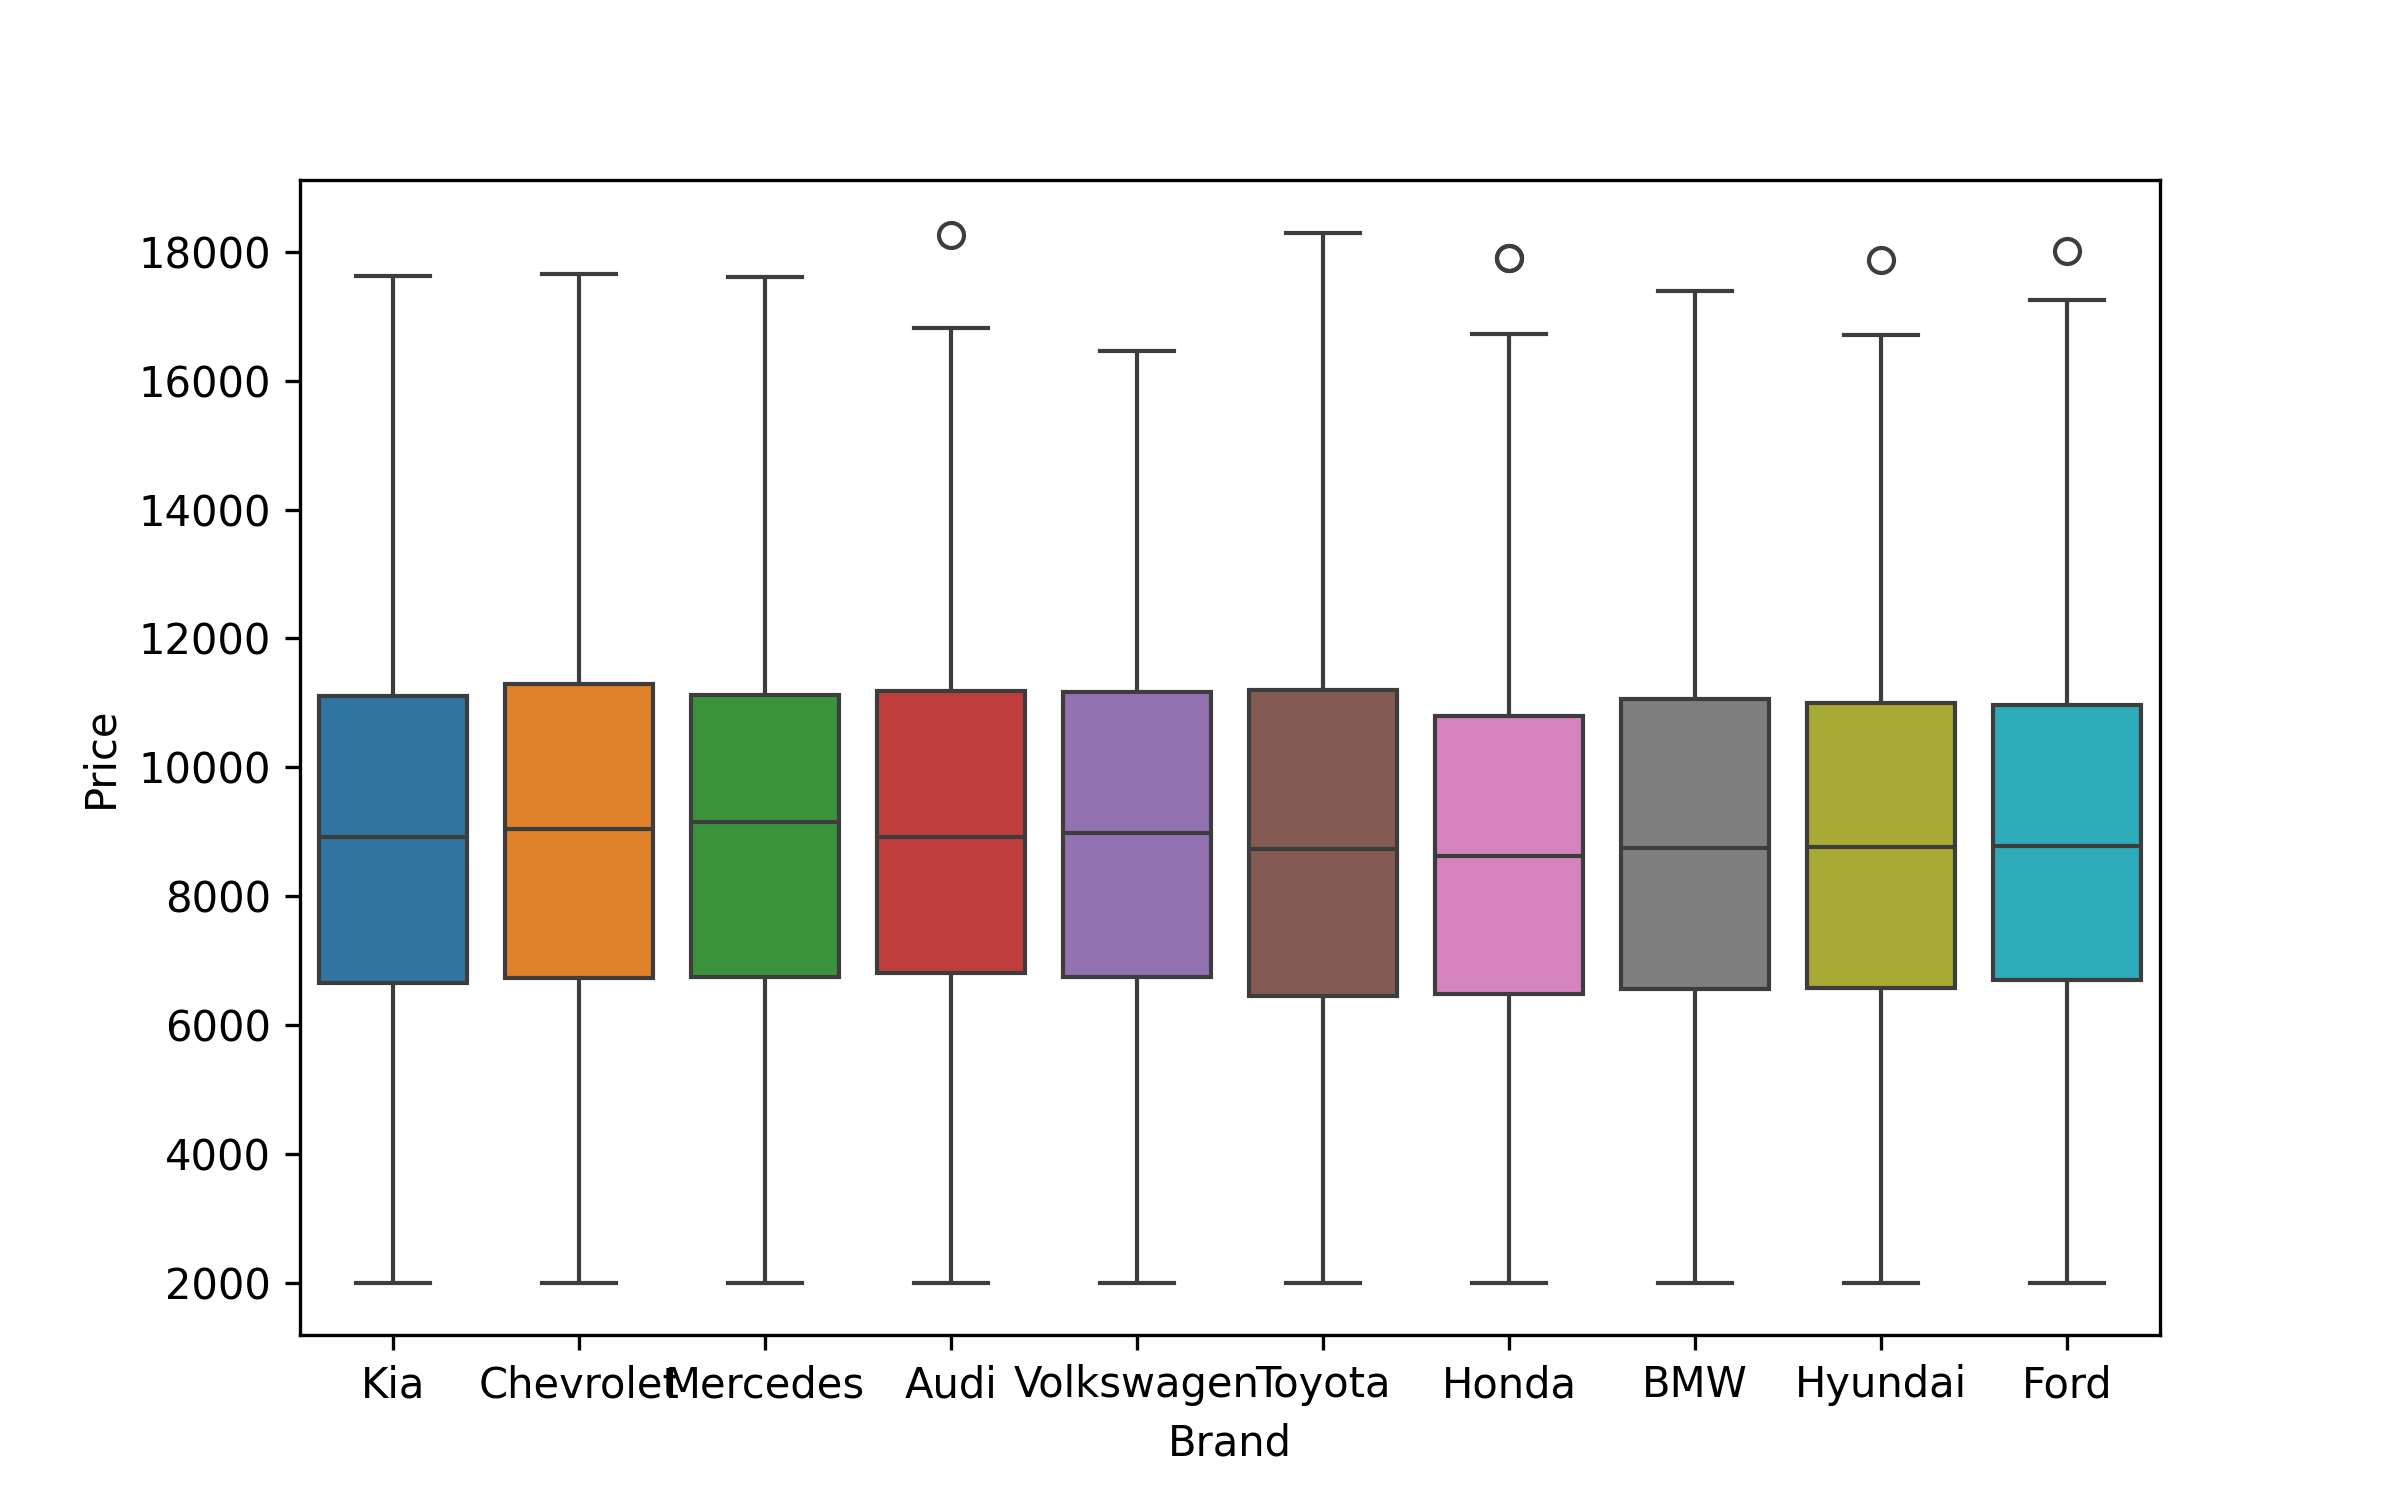
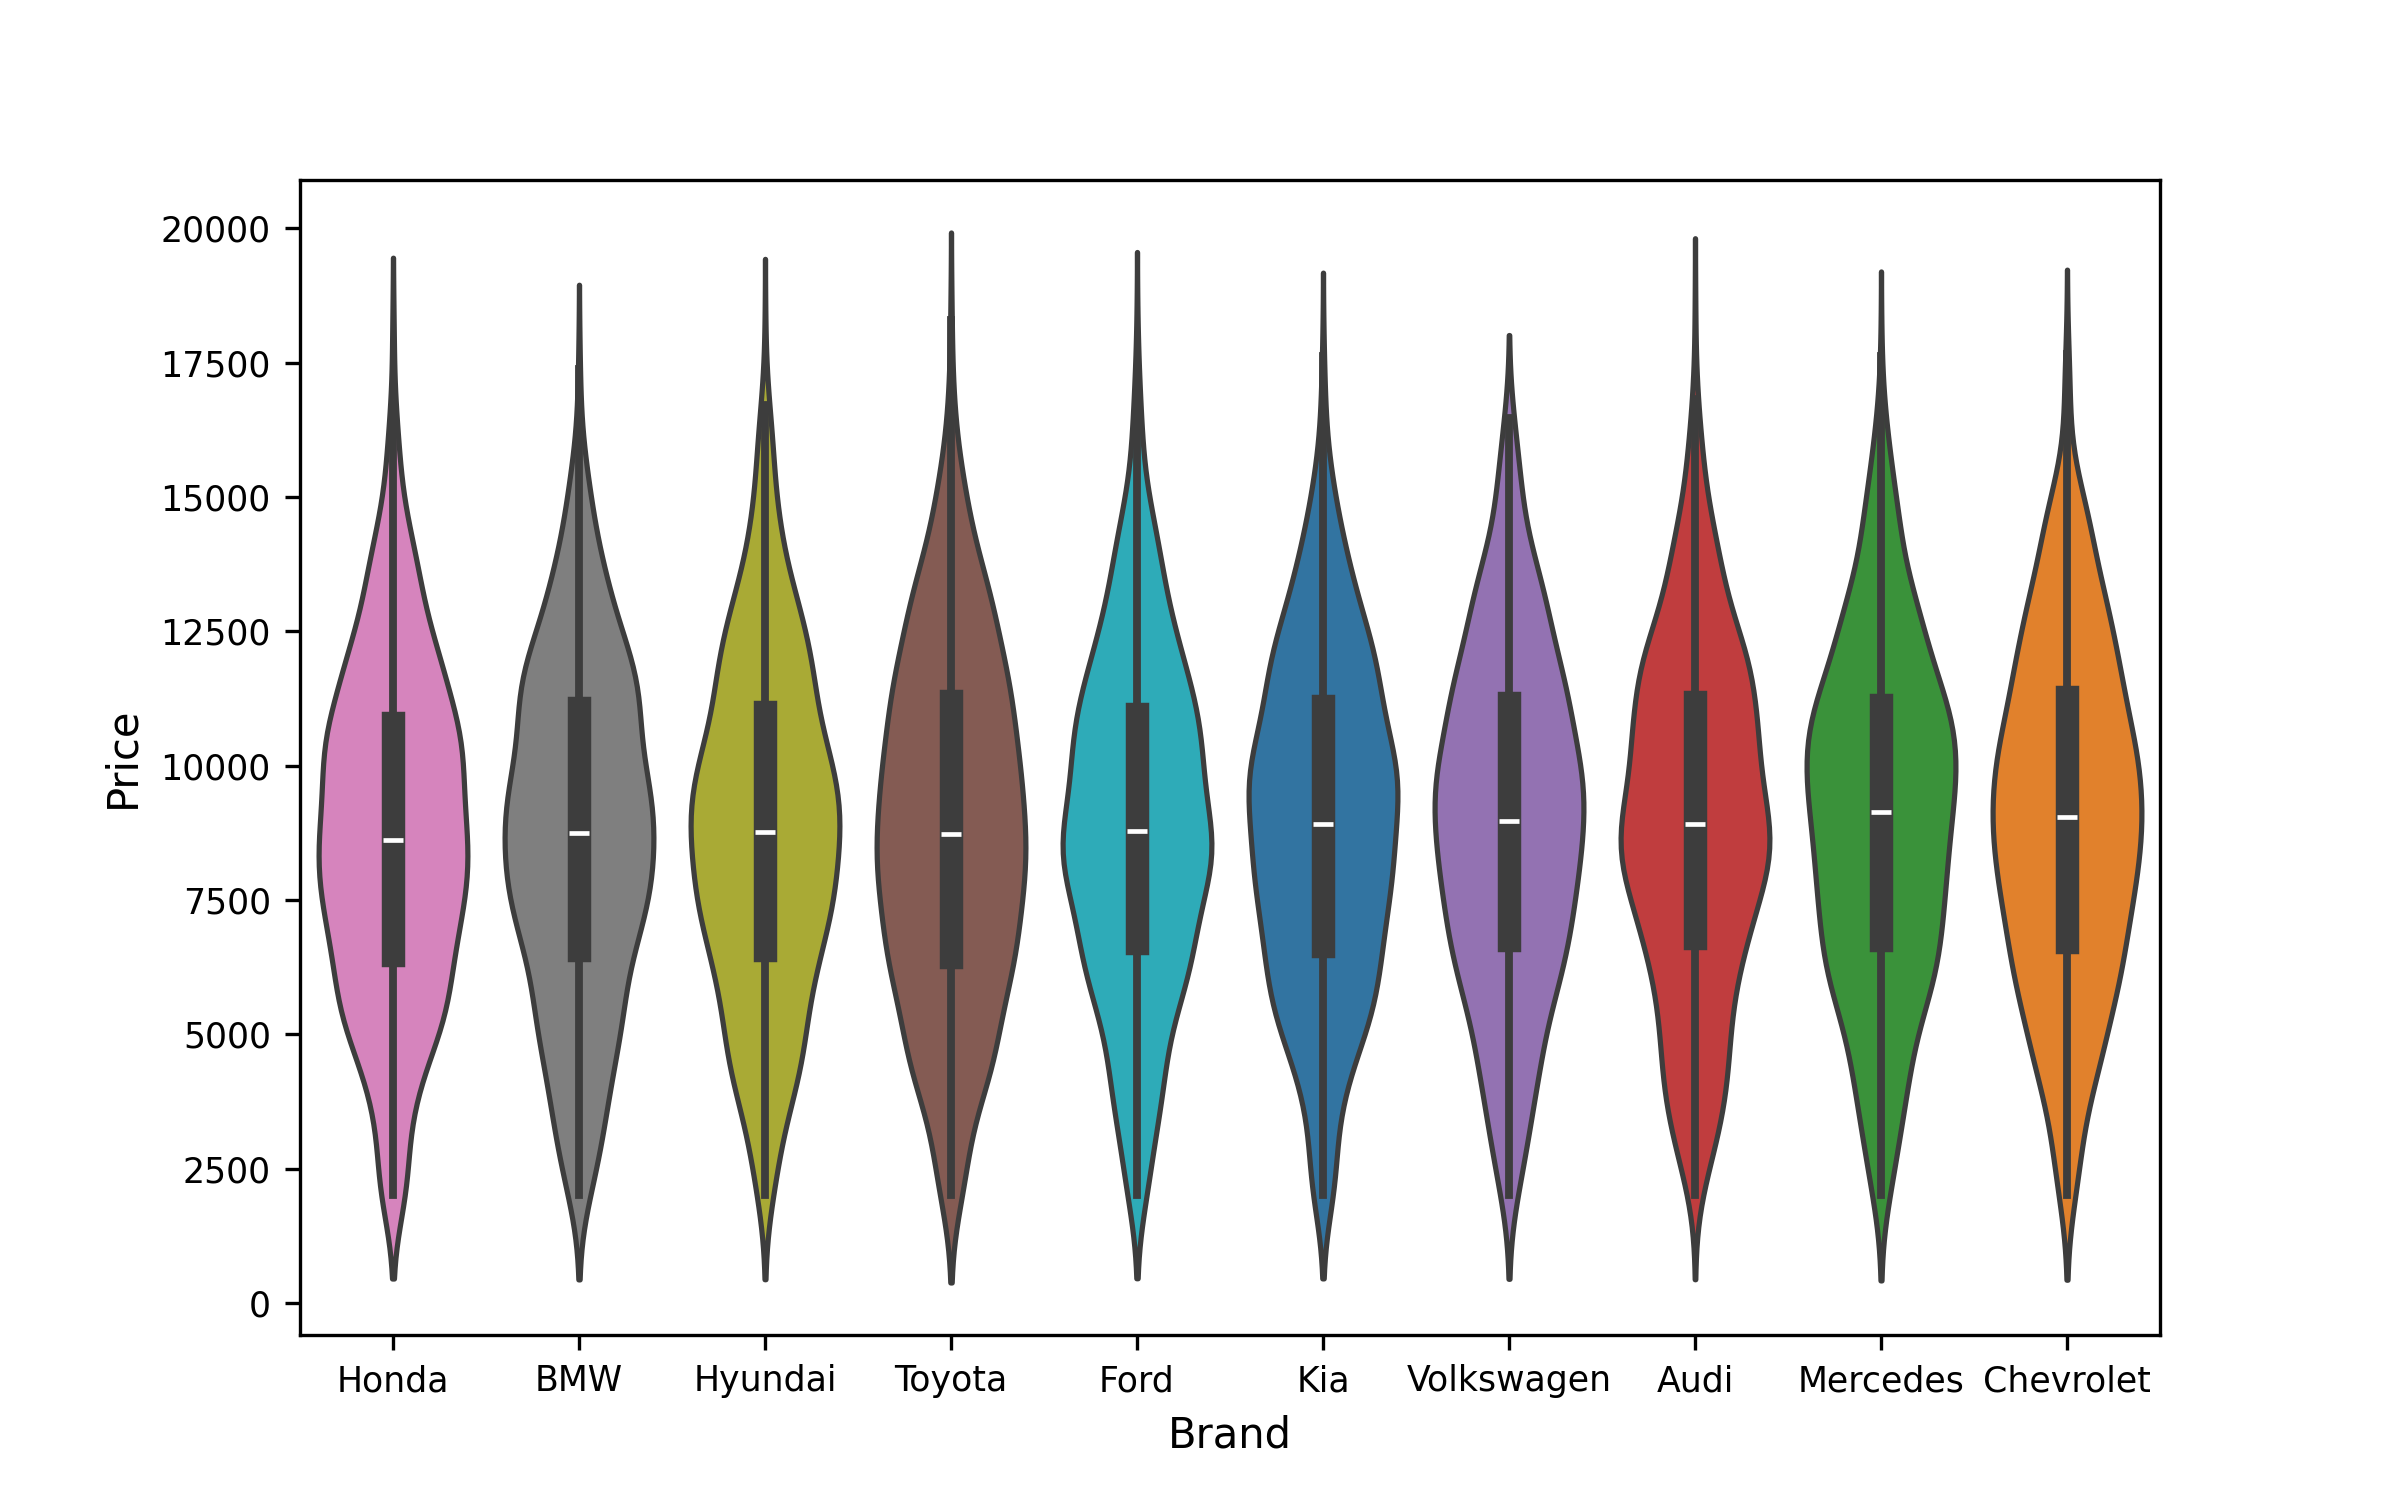
14-3-2025

diff --git a/viz.py b/viz.py
@@ -14,32 +14,49 @@ def is_num(data):
 
 data = pl.read_csv("car_price_dataset.csv")
 data[:250].write_csv("car_price_dataset_reduced.csv")
-
+df = pl.DataFrame()
 for i in data:
     if i.dtype.is_numeric():
         mean = i.mean()
         var = i.var()
+        med = i.median()
         covar = data.select(pl.cov(i, i)).item()
+        df = pl.concat(
+            [
+                df,
+                pl.DataFrame(
+                    {"Value": i.name, "Mean": mean, "Variance": var, "Median": med}
+                ),
+            ]
+        )
+        print(df)
+
         # print(i.name, ": ", mean, var, covar)
-print(data["Fuel_Type"].value_counts(), data.columns)
+df.write_csv("df.csv")
+# print(data["Fuel_Type"].value_counts(), data.columns)
+# print(data["Mileage"].sort(descending=True))
+print(data.select(pl.cov(data["Price"], data["Mileage"])))
 
 
-def plot_mean_prices(data, x, name):
-    fig, ax = plt.subplots(figsize=(8, 5), dpi=300)
-    print(data.group_by(x).agg(pl.col("Price").mean()))
+def mean_prices(data, x):
+    print(data.group_by(x).agg(pl.col("Price").mean()).sort("Price"))
 
 
-def plot_variance_prices(data, x, name):
-    fig, ax = plt.subplots(figsize=(8, 5), dpi=300)
-    print(data.group_by(x).agg(pl.col("Price").std()))
+def mean_mileage(data, x):
+    print(data.group_by(x).agg(pl.col("Mileage").mean()).sort("Mileage"))
 
 
-plot_mean_prices(data, "Fuel_Type", "pic")
-plot_mean_prices(data.sort("Year"), "Year", "pic")
-plot_mean_prices(data, "Brand", "pic")
-plot_variance_prices(data, "Fuel_Type", "pic")
-plot_variance_prices(data.sort("Year"), "Year", "pic")
-plot_variance_prices(data, "Brand", "pic")
+def variance_prices(data, x):
+    print(data.group_by(x).agg(pl.col("Price").std()).sort("Price"))
+
+
+# mean_mileage(data, "Year")
+mean_prices(data, "Fuel_Type")
+# mean_prices(data.sort("Year"), "Year")
+# mean_prices(data, "Brand")
+# variance_prices(data, "Fuel_Type")
+# variance_prices(data.sort("Year"), "Year")
+# variance_prices(data, "Brand")
 
 
 def avg_price_increase(data: pl.DataFrame):
@@ -55,17 +72,42 @@ def avg_price_increase(data: pl.DataFrame):
 avg_price_increase(data)
 
 
-def plot_heatmap(data, name):
-    data = data.select(pl.col(pl.Int64))
+def plot_heatmap(data: pl.DataFrame, name):
+    data = data.select(pl.col(pl.Int64, pl.Float64))
     labels = data.columns
     fig, ax = plt.subplots(figsize=(8, 5), dpi=300)
     sns.heatmap(data.corr(), annot=True, yticklabels=labels, xticklabels=labels, ax=ax)
     fig.savefig(f"{name}.png")
 
 
-def plot_boxplot(data, x, y):
+def plot_covar(data: pl.DataFrame):
+    data = data.select(pl.col(pl.Int64, pl.Float64))
+    labels = data.columns
+    cov_matrix = data.to_pandas().cov()
+    log_cov = np.log10(np.abs(cov_matrix) + 1) * np.sign(cov_matrix)
     fig, ax = plt.subplots(figsize=(8, 5), dpi=300)
-    sns.boxplot(x=x, y=y, data=data, hue=x, ax=ax)
+    sns.heatmap(
+        log_cov,
+        annot=True,
+        yticklabels=labels,
+        xticklabels=labels,
+        cmap="magma",
+        ax=ax,
+    )
+    fig.savefig("covar.png")
+
+
+def plot_boxplot(data: pl.DataFrame, x, y, labelsize=10):
+    sorted_order = (
+        data.group_by(x)
+        .agg(pl.col(y).mean())
+        .sort(y)  # Sort brands by mean price
+        .get_column(x)
+        .to_list()
+    )
+    fig, ax = plt.subplots(figsize=(8, 5), dpi=300)
+    sns.violinplot(x=x, y=y, data=data, order=sorted_order, hue=x, ax=ax)
+    ax.tick_params(labelsize=labelsize)
     fig.savefig(f"boxplot {x}.png")
 
 
@@ -96,32 +138,34 @@ def plot_kdeplot(data, x, hue, name):
 
 
 def plot_stacked(data: pl.DataFrame, x, y, z, name):
-    data["Price"] = data.select(pl.col("Price"))
+    # data["Price"] = data.select(pl.col("Price"))
     fig, ax = plt.subplots(figsize=(8, 5), dpi=300)
     sns.lineplot(data, x=x, y=y, hue=z)
     fig.savefig(f"{name}")
 
 
-plot_stacked(data, "Mileage", "Price", "Fuel_Type", "line.png")
+# plot_stacked(data, "Mileage", "Price", "Fuel_Type", "line.png")
 plot_heatmap(data, "heatmap")
-plot_bar(
-    data.group_by("Fuel_Type").agg(pl.col("Price").mean()).sort("Fuel_Type"),
-    "Fuel_Type",
-    "Price",
-    "price_hist",
-)
-plot_bar(
-    data.group_by("Year").agg(pl.col("Price").mean()).sort("Year"),
-    "Year",
-    "Price",
-    "year_bar",
-)
-plot_distplot(data, "Price", "Fuel_Type", "displot")
-plot_kdeplot(data, "Price", "Fuel_Type", "kdeplot")
-plot_scatterplot(data, "Mileage", "Price", "Fuel_Type", "Fuel Type")
-plot_scatterplot(data, "Mileage", "Price", "Year", "Year")
-plot_scatterplot(data, "Mileage", "Price", "Brand", "Brand")
-plot_boxplot(data, "Fuel_Type", "Price")
-plot_boxplot(data, "Owner_Count", "Price")
-plot_boxplot(data, "Brand", "Price")
-plot_boxplot(data, "Doors", "Price")
+plot_covar(data)
+# plot_bar(
+#     data.group_by("Fuel_Type").agg(pl.col("Price").mean()).sort("Fuel_Type"),
+#     "Fuel_Type",
+#     "Price",
+#     "price_hist",
+# )
+# plot_bar(
+#     data.group_by("Year").agg(pl.col("Price").mean()).sort("Year"),
+#     "Year",
+#     "Price",
+#     "year_bar",
+# )
+# plot_distplot(data, "Price", "Fuel_Type", "displot")
+# plot_kdeplot(data, "Price", "Fuel_Type", "kdeplot")
+# plot_scatterplot(data, "Mileage", "Price", "Fuel_Type", "Fuel Type")
+# plot_scatterplot(data, "Mileage", "Price", "Year", "Year")
+# plot_scatterplot(data, "Mileage", "Price", "Brand", "Brand")
+# plot_boxplot(data, "Brand", "Price", "small")
+# plot_boxplot(data, "Fuel_Type", "Price")
+# plot_boxplot(data, "Owner_Count", "Price")
+# plot_boxplot(data, "Engine_Size", "Price", 6)
+# plot_boxplot(data, "Doors", "Price")
